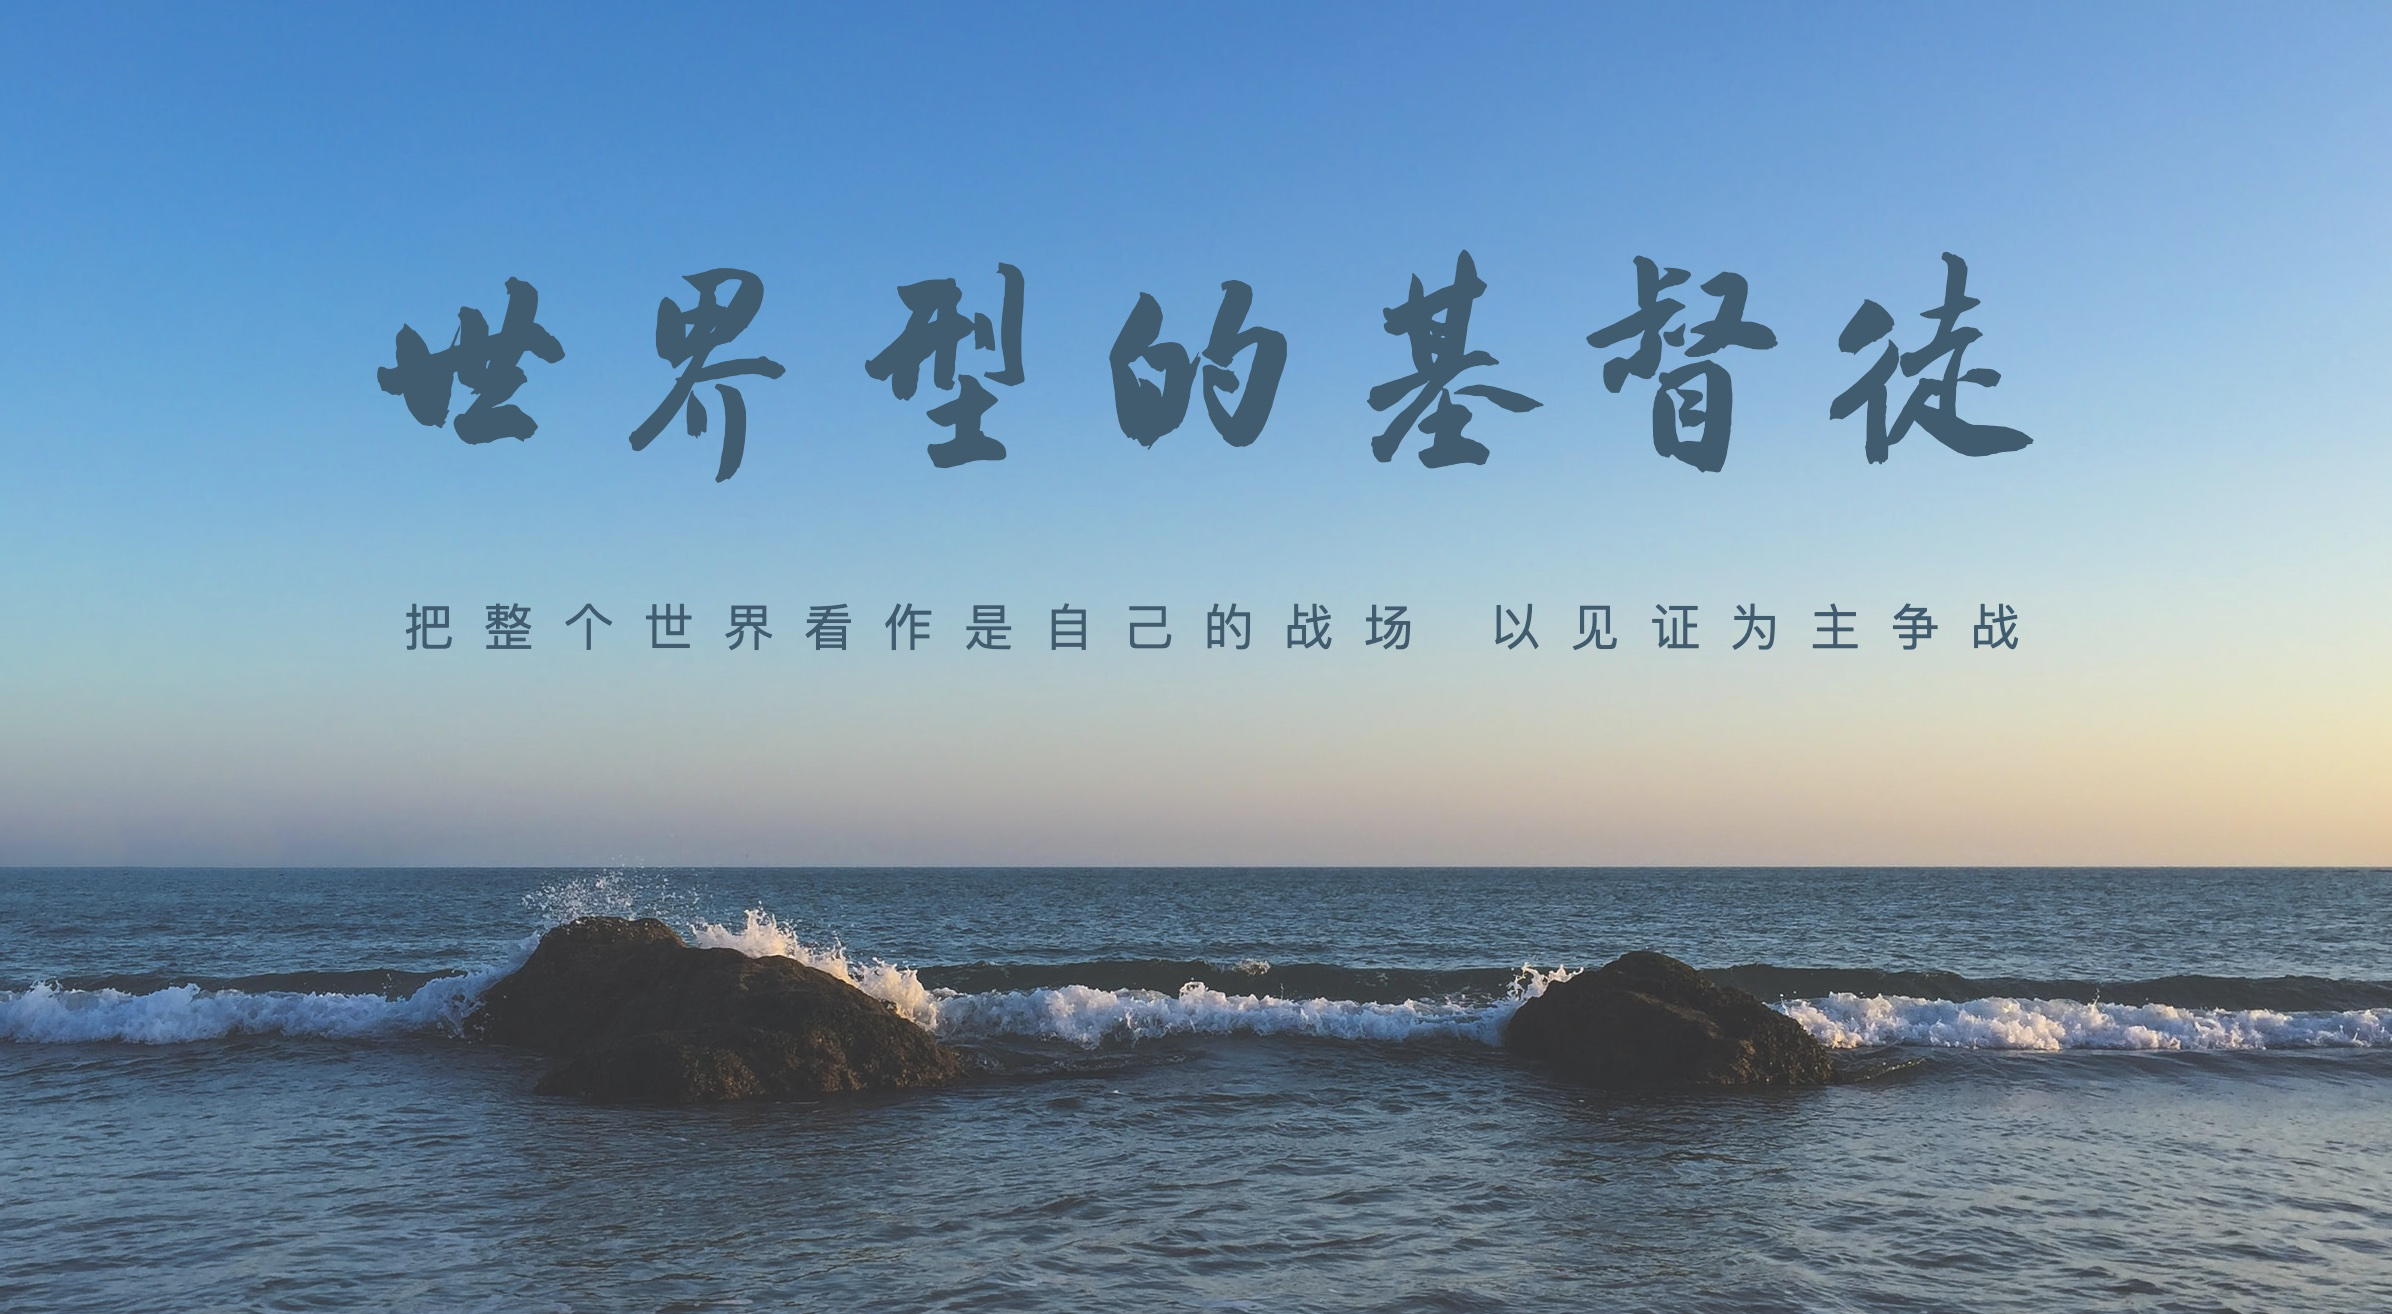
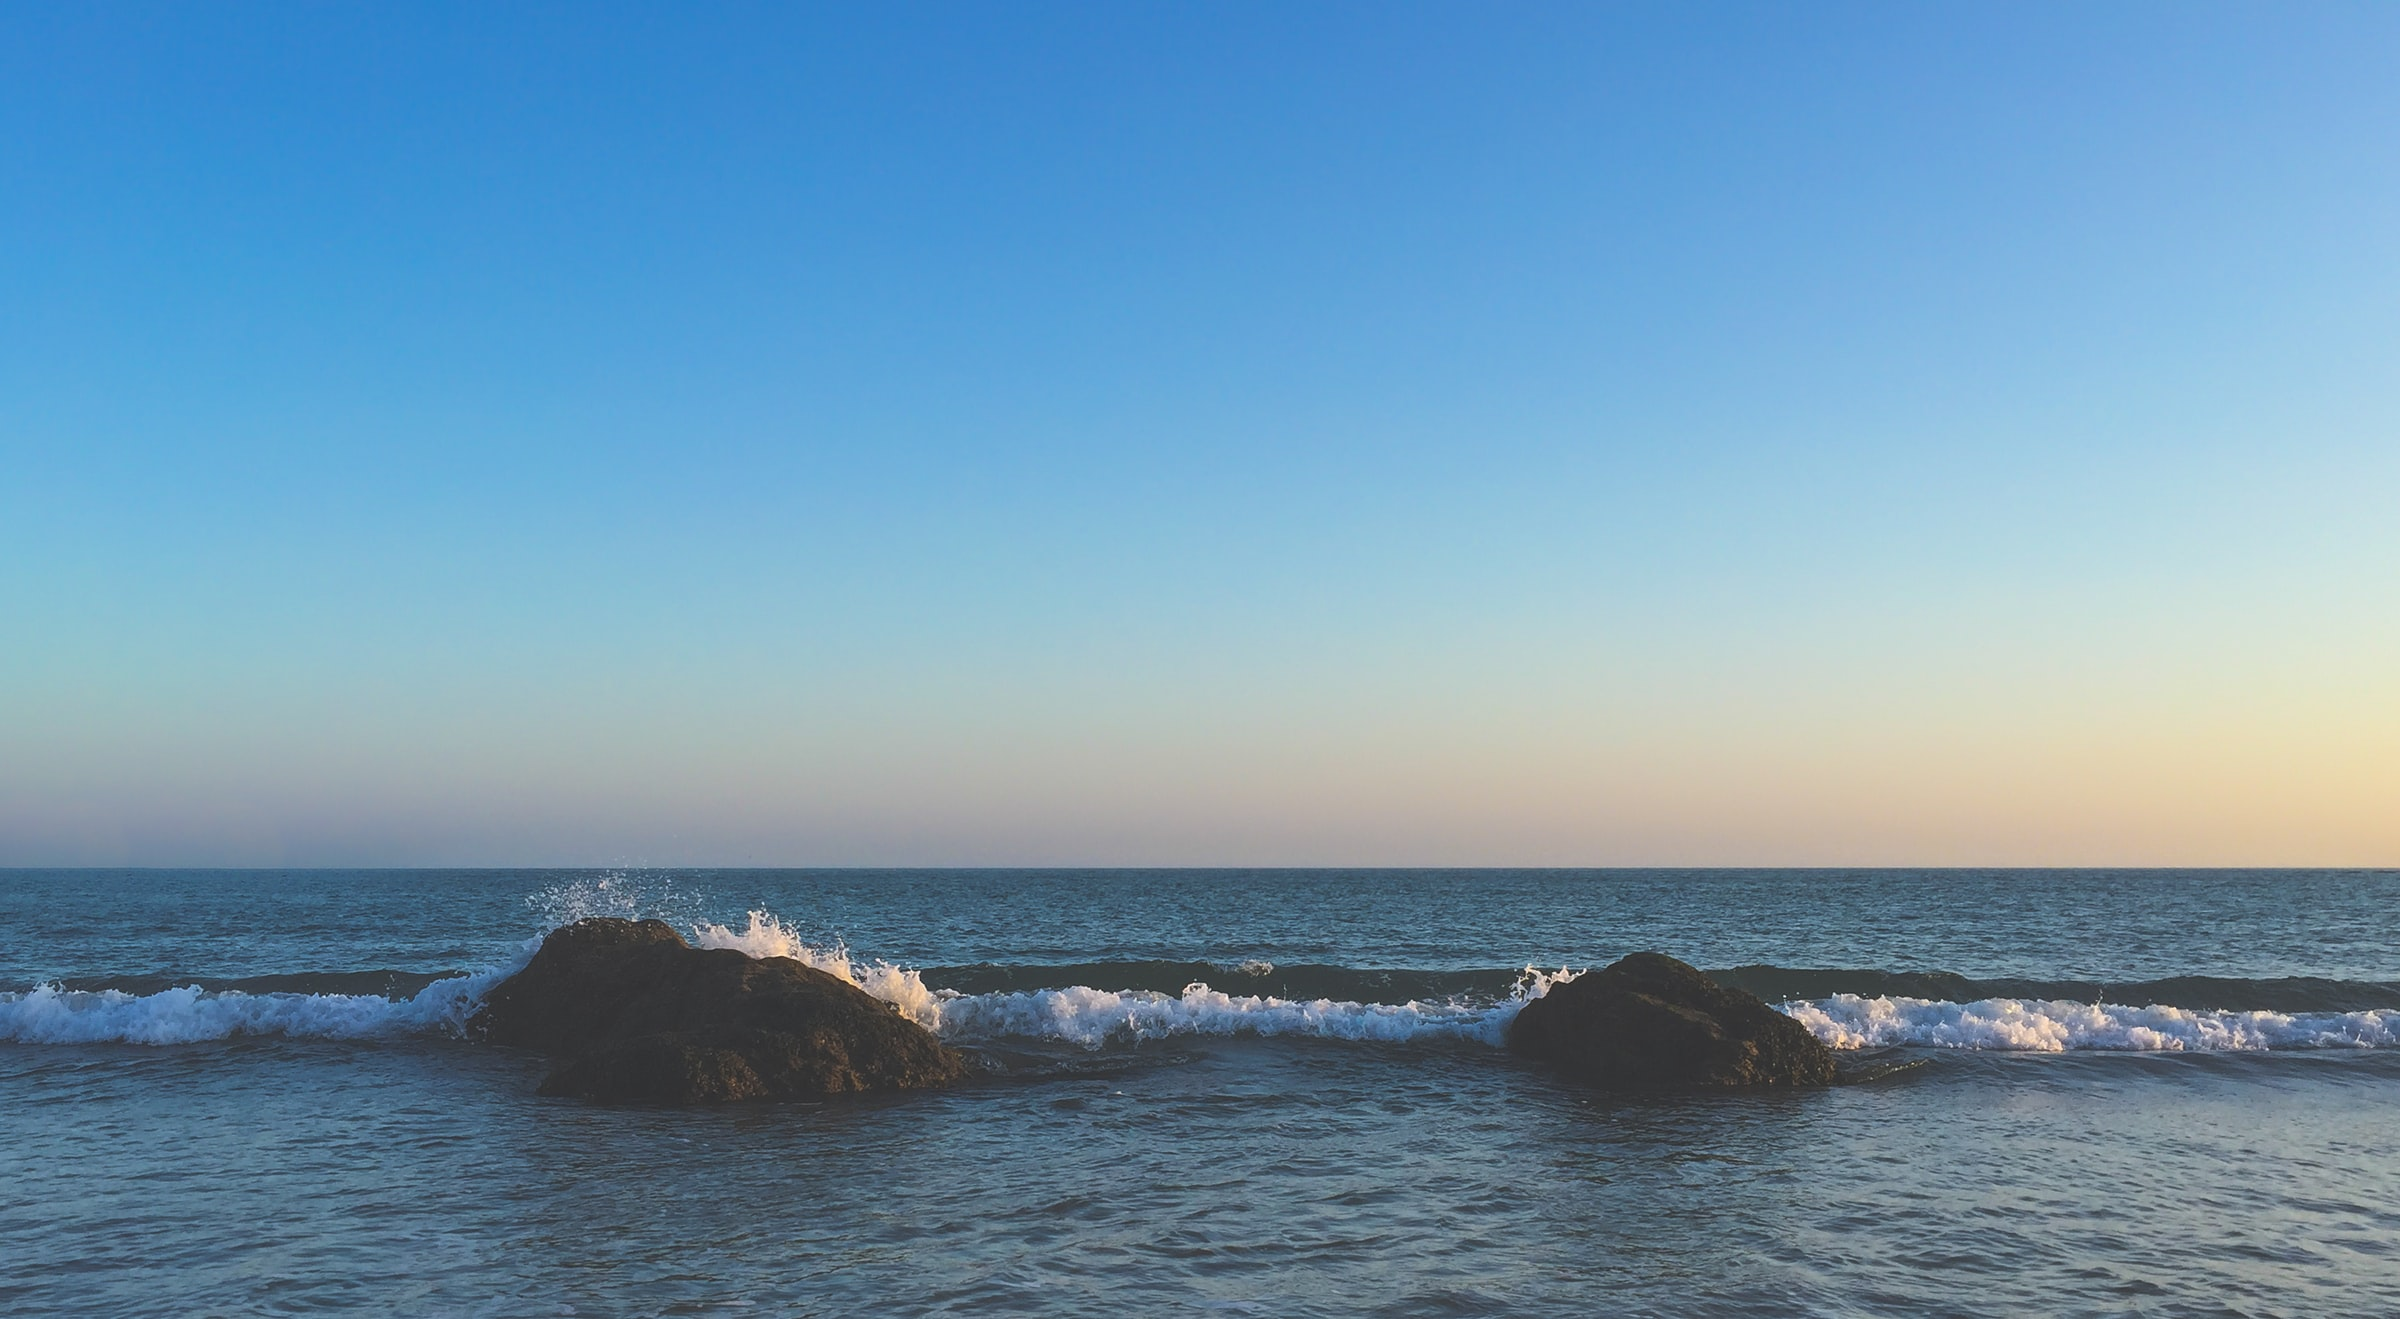
2022-05-22

diff --git a/images/海报/2022-05-22.html b/images/海报/2022-05-22.html
@@ -34,10 +34,31 @@
             margin-right: auto;
             text-align: center;
             width: 100%;
+            top: 45%;
             color: #395d71;
          }
-         .line-1 {
-            top: 45%;
+         div.qr-code-wrapper {
+            position: absolute;
+            bottom: 10px;
+            right: 10px;
+            width: 950px;
+            height: 100px;
+            display: flex;
+            justify-content: flex-start;
+         }
+         img.qr-code {
+            width: 90px;
+            height: 90px;
+         }
+         div.caption {
+            color: #f2f6f8;
+            font-size: 18px;
+            margin-left: 10px;
+            margin-bottom: 4px;
+            letter-spacing: 2px;
+            position: absolute;
+            bottom: 0px;
+            left: 100px;
          }
       </style>
    </head>
@@ -46,6 +67,12 @@
          <div class="title">世界型的基督徒</div>
          <div class="sub-title line-1">
             把整个世界看作是自己的战场 以见证为主争战
+         </div>
+         <div class="qr-code-wrapper">
+            <div class="caption">
+               长按图片识别二维码。如无法打开，尝试关闭 WIFI，使用手机流量访问。
+            </div>
+            <img class="qr-code" src="../2022-05-22-QR.png" alt="" />
          </div>
       </div>
    </body>
